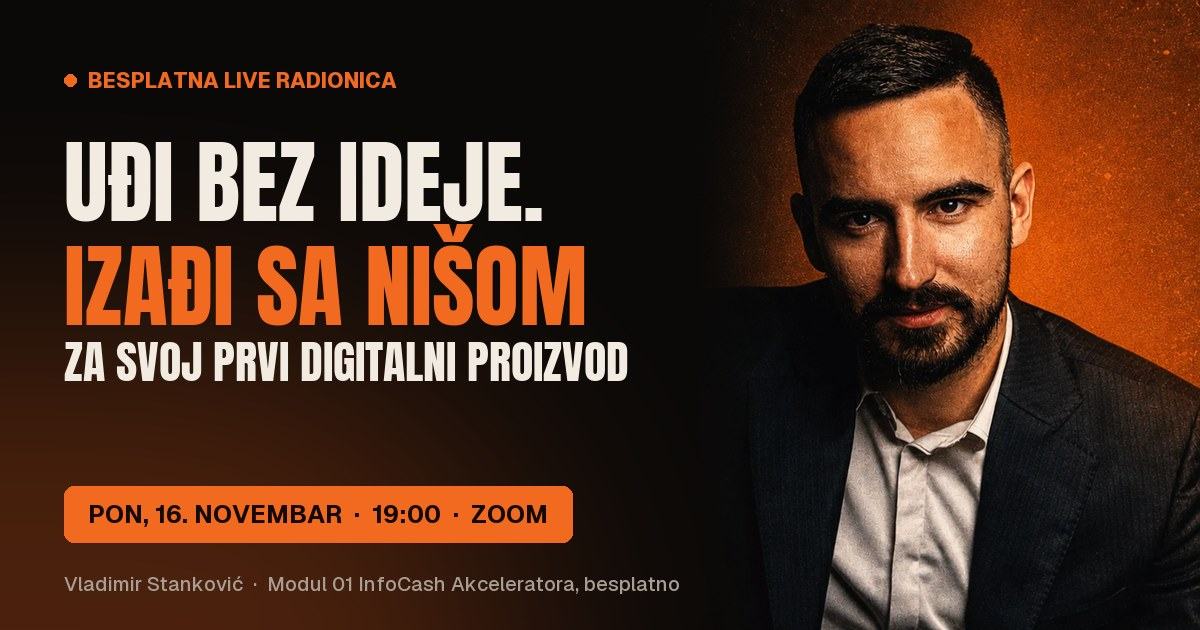
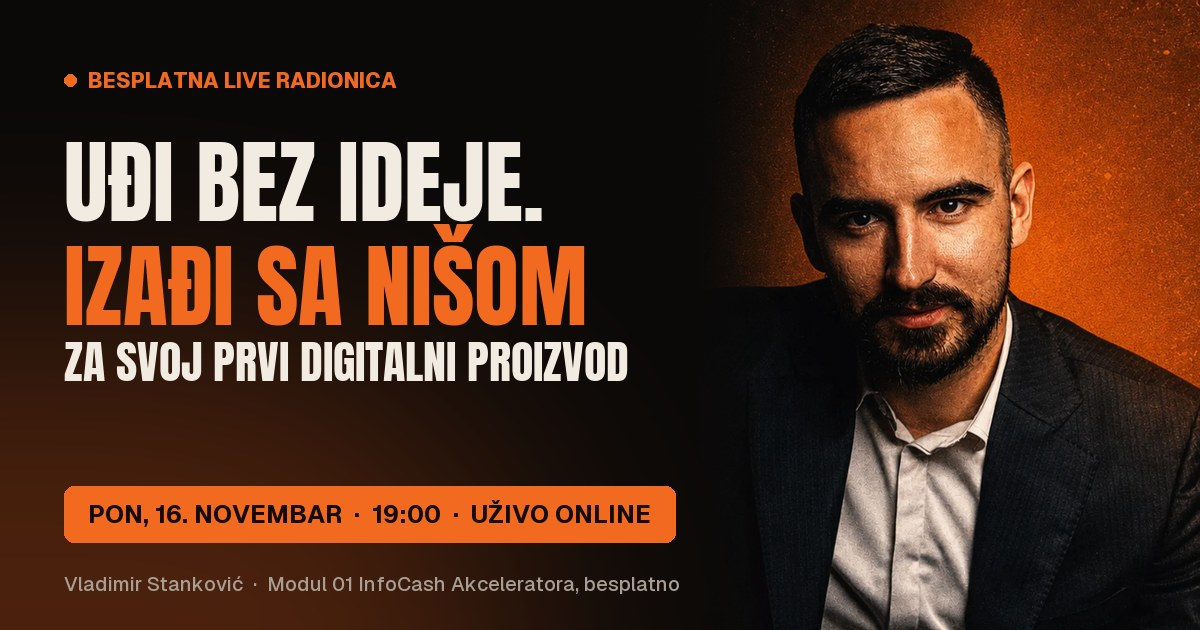
Radionica ide na WebinarJam umesto Zoom-a

Changed region(s): [[0.4008, 0.754, 0.5858, 0.8746]]

diff --git a/index.html b/index.html
@@ -17,17 +17,17 @@
   <meta property="og:site_name" content="Vladimir Stanković · AI Profit Lab">
   <meta property="og:url" content="https://webinar.aiprofit.rs/">
   <meta property="og:title" content="Uđi bez ideje. Izađi sa nišom za svoj prvi digitalni proizvod.">
-  <meta property="og:description" content="Besplatna live radionica. Ponedeljak, 16. novembar u 19h na Zoom-u. Modul 01 InfoCash Akceleratora uživo. 200 mesta, bez snimka.">
-  <meta property="og:image" content="https://webinar.aiprofit.rs/assets/img/og-radionica.jpg">
-  <meta property="og:image:secure_url" content="https://webinar.aiprofit.rs/assets/img/og-radionica.jpg">
+  <meta property="og:description" content="Besplatna live radionica. Ponedeljak, 16. novembar u 19h, uživo online. Modul 01 InfoCash Akceleratora uživo. 200 mesta, bez snimka.">
+  <meta property="og:image" content="https://webinar.aiprofit.rs/assets/img/og-radionica.jpg?v=2">
+  <meta property="og:image:secure_url" content="https://webinar.aiprofit.rs/assets/img/og-radionica.jpg?v=2">
   <meta property="og:image:type" content="image/jpeg">
   <meta property="og:image:width" content="1200">
   <meta property="og:image:height" content="630">
-  <meta property="og:image:alt" content="Vladimir Stanković i natpis: Uđi bez ideje, izađi sa nišom za svoj prvi digitalni proizvod. Ponedeljak, 16. novembar u 19h na Zoom-u.">
+  <meta property="og:image:alt" content="Vladimir Stanković i natpis: Uđi bez ideje, izađi sa nišom za svoj prvi digitalni proizvod. Ponedeljak, 16. novembar u 19h, uživo online.">
   <meta name="twitter:card" content="summary_large_image">
   <meta name="twitter:title" content="Uđi bez ideje. Izađi sa nišom za svoj prvi digitalni proizvod.">
-  <meta name="twitter:description" content="Besplatna live radionica. Ponedeljak, 16. novembar u 19h na Zoom-u. 200 mesta, bez snimka.">
-  <meta name="twitter:image" content="https://webinar.aiprofit.rs/assets/img/og-radionica.jpg">
+  <meta name="twitter:description" content="Besplatna live radionica. Ponedeljak, 16. novembar u 19h, uživo online. 200 mesta, bez snimka.">
+  <meta name="twitter:image" content="https://webinar.aiprofit.rs/assets/img/og-radionica.jpg?v=2">
   <meta name="twitter:image:alt" content="Vladimir Stanković i natpis: Uđi bez ideje, izađi sa nišom za svoj prvi digitalni proizvod.">
 
   <meta name="theme-color" content="#0A0908">
@@ -75,7 +75,7 @@
     <div class="hero-mreza">
 
       <div class="hero-tekst">
-        <span class="hero-znak"><span class="tacka" aria-hidden="true"></span>Besplatna live radionica na Zoom-u</span>
+        <span class="hero-znak"><span class="tacka" aria-hidden="true"></span>Besplatna live online radionica</span>
 
         <p class="hero-modul">Prvi put javno: <strong>Modul 01 programa InfoCash Akcelerator</strong></p>
 
@@ -91,7 +91,7 @@
         <div class="cinjenice">
           <div><b>16. nov</b><span>ponedeljak</span></div>
           <div><b>19:00</b><span>90 minuta</span></div>
-          <div><b>Zoom</b><span>uživo, bez snimka</span></div>
+          <div><b>Online</b><span>WebinarJam, bez snimka</span></div>
           <div><b>200</b><span>mesta ukupno</span></div>
         </div>
 
@@ -110,7 +110,7 @@
            =================================================== -->
       <div class="forma-kartica" id="prijava">
         <h2 id="forma-naslov">Rezerviši svoje mesto</h2>
-        <p class="forma-podnaslov">Besplatno. Zoom link ti stiže na email.</p>
+        <p class="forma-podnaslov">Besplatno. Link za ulazak ti stiže na email.</p>
         <span class="mesta" id="mesta-info">Ograničeno na 200 mesta</span>
 
         <form id="prijava-forma" method="post" action="/api/prijava" novalidate aria-labelledby="forma-naslov">
@@ -151,7 +151,7 @@
           </div>
         </form>
 
-        <p class="privatnost">Bez spama. Podatke koristim samo za Zoom link i podsetnik.</p>
+        <p class="privatnost">Bez spama. Podatke koristim samo za link za ulazak i podsetnik.</p>
 
         <div class="odbrojavanje">
           <p class="odbrojavanje-naslov">Radionica počinje za</p>
@@ -259,7 +259,7 @@
       <article class="deo rv">
         <div class="deo-vreme"><span class="sat">20:05</span><span>Deo 3 · 25 min</span></div>
         <h3>Tvoja pitanja i ponuda samo za prisutne</h3>
-        <p>Odgovaram na pitanja uživo. Na kraju predstavljam InfoCash Akcelerator i specijalnu ponudu koja važi samo za one koji su na Zoom-u.</p>
+        <p>Odgovaram na pitanja uživo. Na kraju predstavljam InfoCash Akcelerator i specijalnu ponudu koja važi samo za one koji su uživo.</p>
       </article>
 
     </div>
@@ -314,7 +314,7 @@
   <div class="wrap uzi">
     <div class="bonus rv">
       <p class="oznaka">Samo uživo</p>
-      <h2>Za one koji budu <span class="nar">na Zoom-u u 19:00</span></h2>
+      <h2>Za one koji budu <span class="nar">uživo u 19:00</span></h2>
       <ul>
         <li>Ekskluzivni <strong>bonus paket</strong> koji delim samo na radionici</li>
         <li><strong>Specijalni popust</strong> na InfoCash Akcelerator, rezervisan za prisutne</li>
@@ -414,7 +414,7 @@
     <div class="faq">
       <details class="rv">
         <summary>Da li je radionica zaista besplatna?</summary>
-        <p>Da. Nema kartice i nema skrivenih troškova. Prijaviš se, a Zoom link ti stiže na email pred radionicu.</p>
+        <p>Da. Nema kartice i nema skrivenih troškova. Prijaviš se, a link za ulazak ti stiže na email pred radionicu.</p>
       </details>
       <details class="rv">
         <summary>Nemam nijednu ideju. Ima li smisla da dođem?</summary>
@@ -442,7 +442,7 @@
       </details>
       <details class="rv">
         <summary>Šta ako se mesta popune?</summary>
-        <p>Zoom sala prima 200 ljudi i prijave se zatvaraju kad se popuni. Ko se ranije prijavi, ima mesto.</p>
+        <p>Soba za radionicu prima 200 ljudi i prijave se zatvaraju kad se popuni. Ko se ranije prijavi, ima mesto.</p>
       </details>
     </div>
   </div>
@@ -453,7 +453,7 @@
   <div class="wrap">
     <p class="oznaka rv" style="justify-content:center;">Ponedeljak, 16. novembar u 19:00</p>
     <h2 class="naslov rv">Za 90 minuta odluka koju odlažeš <span class="nar">mesecima</span></h2>
-    <p class="rv">Uživo na Zoom-u. 200 mesta. Bez snimka. Jedna prijava te deli od niše za tvoj prvi digitalni proizvod.</p>
+    <p class="rv">Uživo online. 200 mesta. Bez snimka. Jedna prijava te deli od niše za tvoj prvi digitalni proizvod.</p>
     <div class="countdown" id="countdown2" aria-hidden="true">
       <div class="box"><div class="broj" id="cd2-dana">0</div><div class="lab">dana</div></div>
       <div class="box"><div class="broj" id="cd2-sati">0</div><div class="lab">sati</div></div>
@@ -497,7 +497,7 @@
       "url": "https://webinar.aiprofit.rs/",
       "name": "Besplatna radionica: Nađi nišu za svoj prvi digitalni proizvod",
       "inLanguage": "sr",
-      "primaryImageOfPage": "https://webinar.aiprofit.rs/assets/img/og-radionica.jpg",
+      "primaryImageOfPage": "https://webinar.aiprofit.rs/assets/img/og-radionica.jpg?v=2",
       "about": {
         "@id": "https://webinar.aiprofit.rs/#radionica"
       }
@@ -508,7 +508,7 @@
       "name": "Besplatna radionica: Nađi nišu za svoj prvi digitalni proizvod",
       "description": "Modul 01 programa InfoCash Akcelerator uživo. Biramo nišu za prvi digitalni proizvod i uz AI proveravamo da li za nju postoje kupci.",
       "image": [
-        "https://webinar.aiprofit.rs/assets/img/og-radionica.jpg"
+        "https://webinar.aiprofit.rs/assets/img/og-radionica.jpg?v=2"
       ],
       "url": "https://webinar.aiprofit.rs/",
       "startDate": "2026-11-16T19:00:00+01:00",
@@ -546,7 +546,7 @@
           "name": "Da li je radionica zaista besplatna?",
           "acceptedAnswer": {
             "@type": "Answer",
-            "text": "Da. Nema kartice i nema skrivenih troškova. Prijaviš se, a Zoom link ti stiže na email pred radionicu."
+            "text": "Da. Nema kartice i nema skrivenih troškova. Prijaviš se, a link za ulazak ti stiže na email pred radionicu."
           }
         },
         {
@@ -602,7 +602,7 @@
           "name": "Šta ako se mesta popune?",
           "acceptedAnswer": {
             "@type": "Answer",
-            "text": "Zoom sala prima 200 ljudi i prijave se zatvaraju kad se popuni. Ko se ranije prijavi, ima mesto."
+            "text": "Soba za radionicu prima 200 ljudi i prijave se zatvaraju kad se popuni. Ko se ranije prijavi, ima mesto."
           }
         }
       ]

diff --git a/mejlovi/podsetnik-1-dan-pre.html b/mejlovi/podsetnik-1-dan-pre.html
@@ -1,10 +1,10 @@
 <!-- ============================================================
-     PODSETNIK 1: dan pre, sa Zoom linkom
+     PODSETNIK 1: dan pre, sa linkom za ulazak
      Kampanja na grupu "Webinar 16.11.2026."
      Slanje: nedelja 15.11.2026. u 19:00 (Europe/Belgrade)
-     Subject:   Sutra u 19h. Tvoj Zoom link je unutra
+     Subject:   Sutra u 19h. Tvoj link za ulazak je unutra
      Lepi se kao JEDAN Custom HTML blok (ovaj komentar ne lepis).
-     PRE SLANJA: zameni ZOOM-LINK-OVDE pravim Zoom linkom (2 mesta).
+     PRE SLANJA: zameni LINK-ZA-ULAZAK-OVDE pravim WebinarJam linkom za ulazak (2 mesta).
      ============================================================ -->
 
 <div style="display:none;max-height:0;overflow:hidden;mso-hide:all;font-size:1px;line-height:1px;color:#0A0908;">
@@ -23,7 +23,7 @@
             <h1 style="margin:0 0 20px;font-family:Arial,Helvetica,sans-serif;font-size:30px;line-height:1.2;font-weight:bold;color:#F2EBE1;">
               Sutra biramo tvoju nišu
             </h1>
-            <p style="margin:0 0 16px;font-family:Arial,Helvetica,sans-serif;font-size:16px;line-height:1.65;color:#D6CCC0;">Zdravo {$name|default('')},</p><p style="margin:0 0 16px;font-family:Arial,Helvetica,sans-serif;font-size:16px;line-height:1.65;color:#D6CCC0;">sutra u 19:00 krećemo uživo na Zoom-u. Ovo nije prezentacija koju gledaš, nego radionica u kojoj radiš. Za praktični deo od 45 minuta pripremi:</p><table role="presentation" width="100%" cellpadding="0" cellspacing="0" border="0" style="margin:0 0 24px;">
+            <p style="margin:0 0 16px;font-family:Arial,Helvetica,sans-serif;font-size:16px;line-height:1.65;color:#D6CCC0;">Zdravo {$name|default('')},</p><p style="margin:0 0 16px;font-family:Arial,Helvetica,sans-serif;font-size:16px;line-height:1.65;color:#D6CCC0;">sutra u 19:00 krećemo uživo na WebinarJam-u. Ovo nije prezentacija koju gledaš, nego radionica u kojoj radiš. Za praktični deo od 45 minuta pripremi:</p><table role="presentation" width="100%" cellpadding="0" cellspacing="0" border="0" style="margin:0 0 24px;">
               <tr>
                 <td bgcolor="#1A120C" style="background-color:#1A120C;border:1px solid #5A2A10;border-radius:12px;padding:20px 22px;">
                   <p style="margin:0 0 8px;font-family:Arial,Helvetica,sans-serif;font-size:13px;font-weight:bold;letter-spacing:0.8px;text-transform:uppercase;color:#FF8B45;">Ponesi sa sobom</p>
@@ -33,9 +33,9 @@
             </table><table role="presentation" cellpadding="0" cellspacing="0" border="0" style="margin:6px 0 24px;">
               <tr>
                 <td bgcolor="#F26A1F" style="background-color:#F26A1F;border-radius:12px;">
-                  <a href="ZOOM-LINK-OVDE" target="_blank"
+                  <a href="LINK-ZA-ULAZAK-OVDE" target="_blank"
                      style="display:inline-block;padding:17px 34px;font-family:Arial,Helvetica,sans-serif;font-size:17px;font-weight:bold;color:#140A04;text-decoration:none;">
-                    Uđi na Zoom sutra u 19h
+                    Uđi sutra u 19h
                   </a>
                 </td>
               </tr>
@@ -46,8 +46,8 @@
                   <p style="margin:0 0 0px;font-family:Arial,Helvetica,sans-serif;font-size:15px;line-height:1.65;color:#D6CCC0;">Zapiši jednu stvar za koju te ljudi najčešće pitaju za savet, a ti im pomažeš besplatno. Sa tim krećemo sutra.</p>
                 </td>
               </tr>
-            </table><p style="margin:0 0 22px;font-family:Arial,Helvetica,sans-serif;font-size:15px;line-height:1.65;color:#A89E93;">Snimka neće biti. Bonus paket i specijalna ponuda važe samo za one koji su uživo na Zoom-u.</p>
-            <p style="margin:0 0 0px;font-family:Arial,Helvetica,sans-serif;font-size:13.5px;line-height:1.65;color:#A89E93;">Ako dugme ne radi, iskopiraj ovaj link:<br><span style="font-family:Consolas,Monaco,'Courier New',monospace;font-size:13px;color:#FFB487;word-break:break-all;">ZOOM-LINK-OVDE</span></p>
+            </table><p style="margin:0 0 22px;font-family:Arial,Helvetica,sans-serif;font-size:15px;line-height:1.65;color:#A89E93;">Snimka neće biti. Bonus paket i specijalna ponuda važe samo za one koji su uživo na WebinarJam-u.</p>
+            <p style="margin:0 0 0px;font-family:Arial,Helvetica,sans-serif;font-size:13.5px;line-height:1.65;color:#A89E93;">Ako dugme ne radi, iskopiraj ovaj link:<br><span style="font-family:Consolas,Monaco,'Courier New',monospace;font-size:13px;color:#FFB487;word-break:break-all;">LINK-ZA-ULAZAK-OVDE</span></p>
           </td>
         </tr>
         <tr>

diff --git a/mejlovi/dobrodoslica.html b/mejlovi/dobrodoslica.html
@@ -66,7 +66,7 @@
             </p>
 
             <p style="margin:0 0 26px;font-family:Arial,Helvetica,sans-serif;font-size:16px;line-height:1.65;color:#D6CCC0;">
-              Zoom link i podsetnik šaljem par dana pred radionicu, na ovu istu adresu.
+              Link za ulazak i podsetnik šaljem par dana pred radionicu, na ovu istu adresu.
               Ne moraš ništa da radiš do tada.
             </p>
 
@@ -78,7 +78,7 @@
                     Termin
                   </p>
                   <p style="margin:0;font-family:Arial,Helvetica,sans-serif;font-size:17px;line-height:1.5;font-weight:bold;color:#F2EBE1;">
-                    Ponedeljak, 16. novembar u 19:00, uživo na Zoom-u
+                    Ponedeljak, 16. novembar u 19:00, uživo na WebinarJam-u
                   </p>
                   <p style="margin:8px 0 0;font-family:Arial,Helvetica,sans-serif;font-size:14.5px;line-height:1.6;color:#D6CCC0;">
                     Snimka neće biti. Ubaci termin u kalendar odmah, da ti ne promakne.
@@ -91,7 +91,7 @@
             <table role="presentation" cellpadding="0" cellspacing="0" border="0" style="margin-top:18px;">
               <tr>
                 <td bgcolor="#2A1609" style="background-color:#2A1609;border:1px solid #5A2A10;border-radius:10px;">
-                  <a href="https://calendar.google.com/calendar/render?action=TEMPLATE&amp;text=Radionica%3A%20Na%C4%91i%20ni%C5%A1u%20za%20svoj%20prvi%20digitalni%20proizvod&amp;dates=20261116T180000Z%2F20261116T193000Z&amp;details=Uzivo%20na%20Zoom-u%20sa%20Vladimirom%20Stankovicem.%20Ponesi%20laptop%20i%20otvoren%20AI%20alat.%20Zoom%20link%20stize%20na%20email.&amp;location=Zoom"
+                  <a href="https://calendar.google.com/calendar/render?action=TEMPLATE&amp;text=Radionica%3A%20Na%C4%91i%20ni%C5%A1u%20za%20svoj%20prvi%20digitalni%20proizvod&amp;dates=20261116T180000Z%2F20261116T193000Z&amp;details=Uzivo%20online%20na%20WebinarJam-u%20sa%20Vladimirom%20Stankovicem.%20Ponesi%20laptop%20i%20otvoren%20AI%20alat.%20Link%20za%20ulazak%20stize%20na%20email.&amp;location=WebinarJam"
                      style="display:inline-block;padding:13px 22px;font-family:Arial,Helvetica,sans-serif;font-size:14px;font-weight:bold;color:#FFB487;text-decoration:none;">
                     Dodaj u Google kalendar
                   </a>
@@ -187,7 +187,7 @@
             <p style="margin:22px 0 0;font-family:Arial,Helvetica,sans-serif;font-size:13px;line-height:1.6;color:#6F665D;">
               Ako ti mejlovi ne stižu u prijemno sanduče, prevuci ovaj mejl iz
               <strong style="color:#A89E93;">Promotions</strong> u <strong style="color:#A89E93;">Primary</strong>.
-              Tako će i Zoom link sigurno stići tamo gde treba.
+              Tako će i link za ulazak sigurno stići tamo gde treba.
             </p>
             <p style="margin:20px 0 0;font-family:Arial,Helvetica,sans-serif;font-size:12px;line-height:1.6;color:#6F665D;">
               Dobio/la si ovaj mejl jer si se prijavio/la na radionicu.<br>

diff --git a/mejlovi/podsetnik-4-pocinjemo.html b/mejlovi/podsetnik-4-pocinjemo.html
@@ -4,11 +4,11 @@
      Slanje: ponedeljak 16.11.2026. u 18:58 (Europe/Belgrade)
      Subject:   Počinjemo. Uđi sada
      Lepi se kao JEDAN Custom HTML blok (ovaj komentar ne lepis).
-     PRE SLANJA: zameni ZOOM-LINK-OVDE pravim Zoom linkom (2 mesta).
+     PRE SLANJA: zameni LINK-ZA-ULAZAK-OVDE pravim WebinarJam linkom za ulazak (2 mesta).
      ============================================================ -->
 
 <div style="display:none;max-height:0;overflow:hidden;mso-hide:all;font-size:1px;line-height:1px;color:#0A0908;">
-  Uživo smo na Zoom-u. Klikni i uđi.
+  Uživo smo. Klikni i uđi.
 </div>
 
 <table role="presentation" width="100%" cellpadding="0" cellspacing="0" border="0" bgcolor="#0A0908" style="background-color:#0A0908;margin:0;padding:0;">
@@ -26,14 +26,14 @@
             <p style="margin:0 0 16px;font-family:Arial,Helvetica,sans-serif;font-size:16px;line-height:1.65;color:#D6CCC0;">Uživo smo. Klikni i uđi, čekamo još par ljudi pa krećemo.</p><table role="presentation" cellpadding="0" cellspacing="0" border="0" style="margin:6px 0 24px;">
               <tr>
                 <td bgcolor="#F26A1F" style="background-color:#F26A1F;border-radius:12px;">
-                  <a href="ZOOM-LINK-OVDE" target="_blank"
+                  <a href="LINK-ZA-ULAZAK-OVDE" target="_blank"
                      style="display:inline-block;padding:17px 34px;font-family:Arial,Helvetica,sans-serif;font-size:17px;font-weight:bold;color:#140A04;text-decoration:none;">
-                    Uđi na Zoom
+                    Uđi na radionicu
                   </a>
                 </td>
               </tr>
             </table><p style="margin:0 0 22px;font-family:Arial,Helvetica,sans-serif;font-size:15px;line-height:1.65;color:#A89E93;">Snimka nema. Ono što se večeras desi, dešava se samo sada.</p>
-            <p style="margin:0 0 0px;font-family:Arial,Helvetica,sans-serif;font-size:13.5px;line-height:1.65;color:#A89E93;">Ako dugme ne radi, iskopiraj ovaj link:<br><span style="font-family:Consolas,Monaco,'Courier New',monospace;font-size:13px;color:#FFB487;word-break:break-all;">ZOOM-LINK-OVDE</span></p>
+            <p style="margin:0 0 0px;font-family:Arial,Helvetica,sans-serif;font-size:13.5px;line-height:1.65;color:#A89E93;">Ako dugme ne radi, iskopiraj ovaj link:<br><span style="font-family:Consolas,Monaco,'Courier New',monospace;font-size:13px;color:#FFB487;word-break:break-all;">LINK-ZA-ULAZAK-OVDE</span></p>
           </td>
         </tr>
         <tr>

diff --git a/mejlovi/podsetnik-3-sat-pre.html b/mejlovi/podsetnik-3-sat-pre.html
@@ -4,7 +4,7 @@
      Slanje: ponedeljak 16.11.2026. u 18:00 (Europe/Belgrade)
      Subject:   Za sat vremena krećemo
      Lepi se kao JEDAN Custom HTML blok (ovaj komentar ne lepis).
-     PRE SLANJA: zameni ZOOM-LINK-OVDE pravim Zoom linkom (2 mesta).
+     PRE SLANJA: zameni LINK-ZA-ULAZAK-OVDE pravim WebinarJam linkom za ulazak (2 mesta).
      ============================================================ -->
 
 <div style="display:none;max-height:0;overflow:hidden;mso-hide:all;font-size:1px;line-height:1px;color:#0A0908;">
@@ -26,14 +26,14 @@
             <p style="margin:0 0 16px;font-family:Arial,Helvetica,sans-serif;font-size:16px;line-height:1.65;color:#D6CCC0;">Zdravo {$name|default('')},</p><p style="margin:0 0 16px;font-family:Arial,Helvetica,sans-serif;font-size:16px;line-height:1.65;color:#D6CCC0;">u 19:00 smo uživo. Otvori laptop, AI alat u drugom prozoru i pripremi papir i olovku.</p><table role="presentation" cellpadding="0" cellspacing="0" border="0" style="margin:6px 0 24px;">
               <tr>
                 <td bgcolor="#F26A1F" style="background-color:#F26A1F;border-radius:12px;">
-                  <a href="ZOOM-LINK-OVDE" target="_blank"
+                  <a href="LINK-ZA-ULAZAK-OVDE" target="_blank"
                      style="display:inline-block;padding:17px 34px;font-family:Arial,Helvetica,sans-serif;font-size:17px;font-weight:bold;color:#140A04;text-decoration:none;">
-                    Uđi na Zoom
+                    Uđi na radionicu
                   </a>
                 </td>
               </tr>
             </table><p style="margin:0 0 22px;font-family:Arial,Helvetica,sans-serif;font-size:15px;line-height:1.65;color:#A89E93;">Ako kasniš, uđi kad stigneš. Praktični deo počinje u 19:20.</p>
-            <p style="margin:0 0 0px;font-family:Arial,Helvetica,sans-serif;font-size:13.5px;line-height:1.65;color:#A89E93;">Ako dugme ne radi, iskopiraj ovaj link:<br><span style="font-family:Consolas,Monaco,'Courier New',monospace;font-size:13px;color:#FFB487;word-break:break-all;">ZOOM-LINK-OVDE</span></p>
+            <p style="margin:0 0 0px;font-family:Arial,Helvetica,sans-serif;font-size:13.5px;line-height:1.65;color:#A89E93;">Ako dugme ne radi, iskopiraj ovaj link:<br><span style="font-family:Consolas,Monaco,'Courier New',monospace;font-size:13px;color:#FFB487;word-break:break-all;">LINK-ZA-ULAZAK-OVDE</span></p>
           </td>
         </tr>
         <tr>

diff --git a/mejlovi/podsetnik-2-danas.html b/mejlovi/podsetnik-2-danas.html
@@ -4,7 +4,7 @@
      Slanje: ponedeljak 16.11.2026. u 10:00 (Europe/Belgrade)
      Subject:   Danas u 19h: radionica uživo
      Lepi se kao JEDAN Custom HTML blok (ovaj komentar ne lepis).
-     PRE SLANJA: zameni ZOOM-LINK-OVDE pravim Zoom linkom (2 mesta).
+     PRE SLANJA: zameni LINK-ZA-ULAZAK-OVDE pravim WebinarJam linkom za ulazak (2 mesta).
      ============================================================ -->
 
 <div style="display:none;max-height:0;overflow:hidden;mso-hide:all;font-size:1px;line-height:1px;color:#0A0908;">
@@ -26,9 +26,9 @@
             <p style="margin:0 0 16px;font-family:Arial,Helvetica,sans-serif;font-size:16px;line-height:1.65;color:#D6CCC0;">Zdravo {$name|default('')},</p><p style="margin:0 0 16px;font-family:Arial,Helvetica,sans-serif;font-size:16px;line-height:1.65;color:#D6CCC0;">večeras krećemo. Uđi par minuta ranije da proveriš zvuk i sliku.</p><table role="presentation" cellpadding="0" cellspacing="0" border="0" style="margin:6px 0 24px;">
               <tr>
                 <td bgcolor="#F26A1F" style="background-color:#F26A1F;border-radius:12px;">
-                  <a href="ZOOM-LINK-OVDE" target="_blank"
+                  <a href="LINK-ZA-ULAZAK-OVDE" target="_blank"
                      style="display:inline-block;padding:17px 34px;font-family:Arial,Helvetica,sans-serif;font-size:17px;font-weight:bold;color:#140A04;text-decoration:none;">
-                    Uđi na Zoom u 19h
+                    Uđi u 19h
                   </a>
                 </td>
               </tr>
@@ -47,7 +47,7 @@
                 </td>
               </tr>
             </table>
-            <p style="margin:0 0 0px;font-family:Arial,Helvetica,sans-serif;font-size:13.5px;line-height:1.65;color:#A89E93;">Ako dugme ne radi, iskopiraj ovaj link:<br><span style="font-family:Consolas,Monaco,'Courier New',monospace;font-size:13px;color:#FFB487;word-break:break-all;">ZOOM-LINK-OVDE</span></p>
+            <p style="margin:0 0 0px;font-family:Arial,Helvetica,sans-serif;font-size:13.5px;line-height:1.65;color:#A89E93;">Ako dugme ne radi, iskopiraj ovaj link:<br><span style="font-family:Consolas,Monaco,'Courier New',monospace;font-size:13px;color:#FFB487;word-break:break-all;">LINK-ZA-ULAZAK-OVDE</span></p>
           </td>
         </tr>
         <tr>

diff --git a/mejlovi/potvrda-prijave.html b/mejlovi/potvrda-prijave.html
@@ -12,7 +12,7 @@
        3. dodati MailerLite webhook koji red u bazi prebacuje iz
           'prijavljen' u 'potvrdjen' (videti uputstvo-referal.md)
      Racunaj i da automatizacije ne rade dok je kontakt nepotvrdjen,
-     pa Zoom link ceka na klik potvrde.
+     pa link za ulazak ceka na klik potvrde.
 
      Lepi se u MailerLite: Forms > tvoja forma > Double opt-in > Edit.
      Izmena opt-in mejla je dostupna samo na placenim planovima.
@@ -67,7 +67,7 @@
             <p style="margin:0 0 16px;font-family:Arial,Helvetica,sans-serif;font-size:16px;line-height:1.65;color:#D6CCC0;">
               Hvala što si se prijavio/la na besplatnu radionicu
               <strong style="color:#F2EBE1;">„Modul 01 uživo: nađi nišu za svoj prvi digitalni proizvod"</strong>.
-              Ostalo je samo da potvrdiš svoju adresu, da znam da je prava i da ti Zoom link
+              Ostalo je samo da potvrdiš svoju adresu, da znam da je prava i da ti link za ulazak
               stigne na vreme.
             </p>
 
@@ -95,7 +95,7 @@
 
             <p style="margin:0 0 22px;font-family:Arial,Helvetica,sans-serif;font-size:16px;line-height:1.65;color:#D6CCC0;">
               Čim potvrdiš, šaljem ti tvoj lični link za pozivanje prijatelja.
-              Zoom link i podsetnik stižu par dana pred radionicu.
+              Link za ulazak i podsetnik stižu par dana pred radionicu.
             </p>
 
             <!-- podsetnik na termin -->
@@ -103,7 +103,7 @@
               <tr>
                 <td bgcolor="#1A120C" style="background-color:#1A120C;border:1px solid #5A2A10;border-radius:12px;padding:18px 22px;">
                   <p style="margin:0;font-family:Arial,Helvetica,sans-serif;font-size:15px;line-height:1.6;color:#D6CCC0;">
-                    <strong style="color:#F2EBE1;">Termin:</strong> Ponedeljak, 16. novembar u 19:00, uživo na Zoom-u.<br>
+                    <strong style="color:#F2EBE1;">Termin:</strong> Ponedeljak, 16. novembar u 19:00, uživo na WebinarJam-u.<br>
                     Snimka neće biti, pa ubaci termin u kalendar odmah.
                   </p>
                 </td>

diff --git a/hvala.html b/hvala.html
@@ -55,10 +55,10 @@ alt=""></noscript>
     <section class="hvala-kartica hvala-potvrda" id="potvrda" hidden>
       <div class="uspeh-ikona" aria-hidden="true">✓</div>
       <h1>Mesto je rezervisano<span id="potvrda-ime"></span></h1>
-      <p>Zoom link i podsetnik šaljem na email pred radionicu. Ako ih ne vidiš u prijemnom sandučetu, pogledaj <strong>Promotions</strong> i <strong>Spam</strong> folder.</p>
+      <p>Link za ulazak i podsetnik šaljem na email pred radionicu. Ako ih ne vidiš u prijemnom sandučetu, pogledaj <strong>Promotions</strong> i <strong>Spam</strong> folder.</p>
       <p class="uspeh-napomena">Radionica je u <strong>ponedeljak, 16. novembra u 19:00</strong> i snimka neće biti. Ubaci je odmah u kalendar da ti ne promakne.</p>
       <div class="uspeh-dugmad">
-        <a class="uspeh-btn" href="https://calendar.google.com/calendar/render?action=TEMPLATE&amp;text=Radionica%3A%20Na%C4%91i%20ni%C5%A1u%20za%20svoj%20prvi%20digitalni%20proizvod&amp;dates=20261116T180000Z%2F20261116T193000Z&amp;details=Uzivo%20na%20Zoom-u%20sa%20Vladimirom%20Stankovicem.%20Ponesi%20laptop%20i%20otvoren%20AI%20alat.%20Zoom%20link%20stize%20na%20email.&amp;location=Zoom" target="_blank" rel="noopener">Dodaj u Google kalendar</a>
+        <a class="uspeh-btn" href="https://calendar.google.com/calendar/render?action=TEMPLATE&amp;text=Radionica%3A%20Na%C4%91i%20ni%C5%A1u%20za%20svoj%20prvi%20digitalni%20proizvod&amp;dates=20261116T180000Z%2F20261116T193000Z&amp;details=Uzivo%20online%20na%20WebinarJam-u%20sa%20Vladimirom%20Stankovicem.%20Ponesi%20laptop%20i%20otvoren%20AI%20alat.%20Link%20za%20ulazak%20stize%20na%20email.&amp;location=WebinarJam" target="_blank" rel="noopener">Dodaj u Google kalendar</a>
         <a class="uspeh-btn" href="assets/vebinar.ics?v=2" download>Apple / Outlook (.ics)</a>
       </div>
     </section>
@@ -127,6 +127,6 @@ alt=""></noscript>
   </div>
 </main>
 
-<script src="assets/js/hvala.js?v=5" defer></script>
+<script src="assets/js/hvala.js?v=6" defer></script>
 </body>
 </html>

diff --git a/assets/js/hvala.js b/assets/js/hvala.js
@@ -100,7 +100,7 @@
   // ---------- deljenje ----------
 
   var PORUKA = "Vlada Stanković u ponedeljak 16.11. u 19h drži besplatnu radionicu " +
-    "na Zoom-u: uživo bira nišu za digitalni proizvod i uz AI proverava da li za nju " +
+    "online: uživo bira nišu za digitalni proizvod i uz AI proverava da li za nju " +
     "postoje kupci. Mislim da bi ti koristilo, prijavi se ovde:";
 
   function pripremiDeljenje(link) {

diff --git a/uputstvo-mailerlite-v4.md b/uputstvo-mailerlite-v4.md
@@ -53,7 +53,7 @@ Grupa: **Webinar 16.11.2026.** (ID `203700115470288528`, postavljen kao
 | Mejl | Kako se šalje | Kada | Fajl |
 |---|---|---|---|
 | Welcome + referal link | **Automatizacija**, trigger „joins group" → Webinar 16.11.2026. | odmah | [dobrodoslica.html](mejlovi/dobrodoslica.html) (2 HTML bloka + MailerLite dugme) |
-| Sutra u 19h + Zoom link | **Kampanja** na grupu | ned 15.11. u 19:00 | [podsetnik-1-dan-pre.html](mejlovi/podsetnik-1-dan-pre.html) |
+| Sutra u 19h + link za ulazak | **Kampanja** na grupu | ned 15.11. u 19:00 | [podsetnik-1-dan-pre.html](mejlovi/podsetnik-1-dan-pre.html) |
 | Danas u 19h | **Kampanja** na grupu | pon 16.11. u 10:00 | [podsetnik-2-danas.html](mejlovi/podsetnik-2-danas.html) |
 | Za sat vremena | **Kampanja** na grupu | pon 16.11. u 18:00 | [podsetnik-3-sat-pre.html](mejlovi/podsetnik-3-sat-pre.html) |
 | Počinjemo | **Kampanja** na grupu | pon 16.11. u 18:58 | [podsetnik-4-pocinjemo.html](mejlovi/podsetnik-4-pocinjemo.html) |
@@ -64,7 +64,7 @@ podsetnike na vreme. U automatizaciji bi „čekaj do datuma" kasnim prijavama
 poslao sve odjednom.
 
 Svaki podsetnik je JEDAN Custom HTML blok. Pre zakazivanja u svakom zameni
-`ZOOM-LINK-OVDE` pravim Zoom linkom (dva mesta po mejlu). Subject je upisan u
+`LINK-ZA-ULAZAK-OVDE` linkom za ulazak sa WebinarJam-a (dva mesta po mejlu). Subject je upisan u
 komentaru na vrhu fajla.
 
 ---
